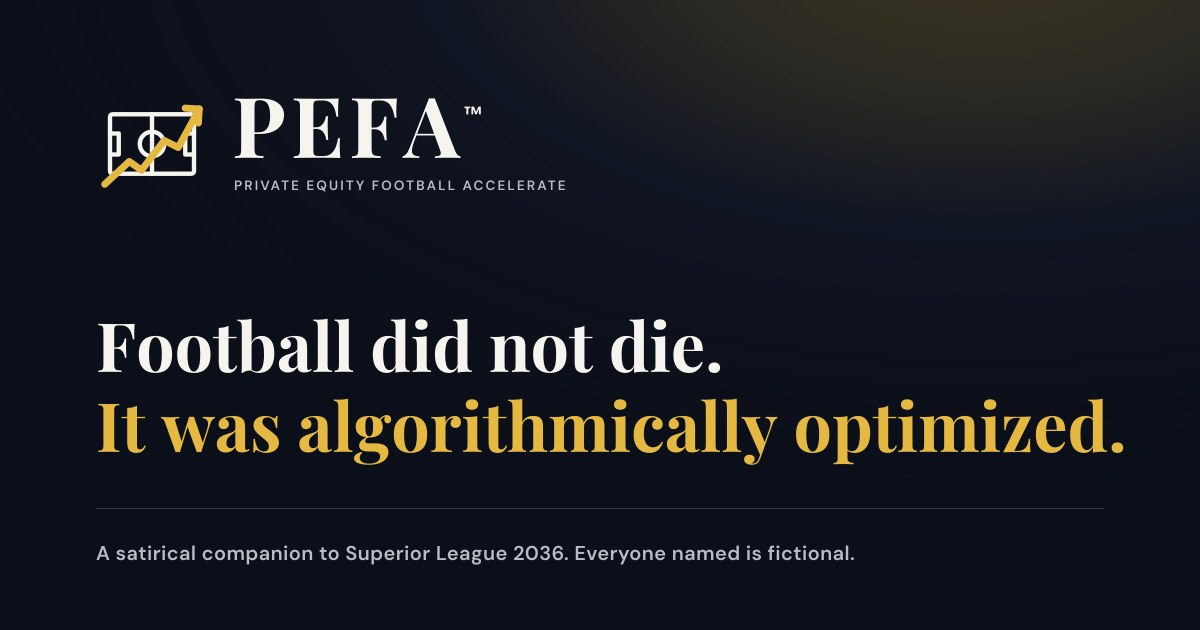
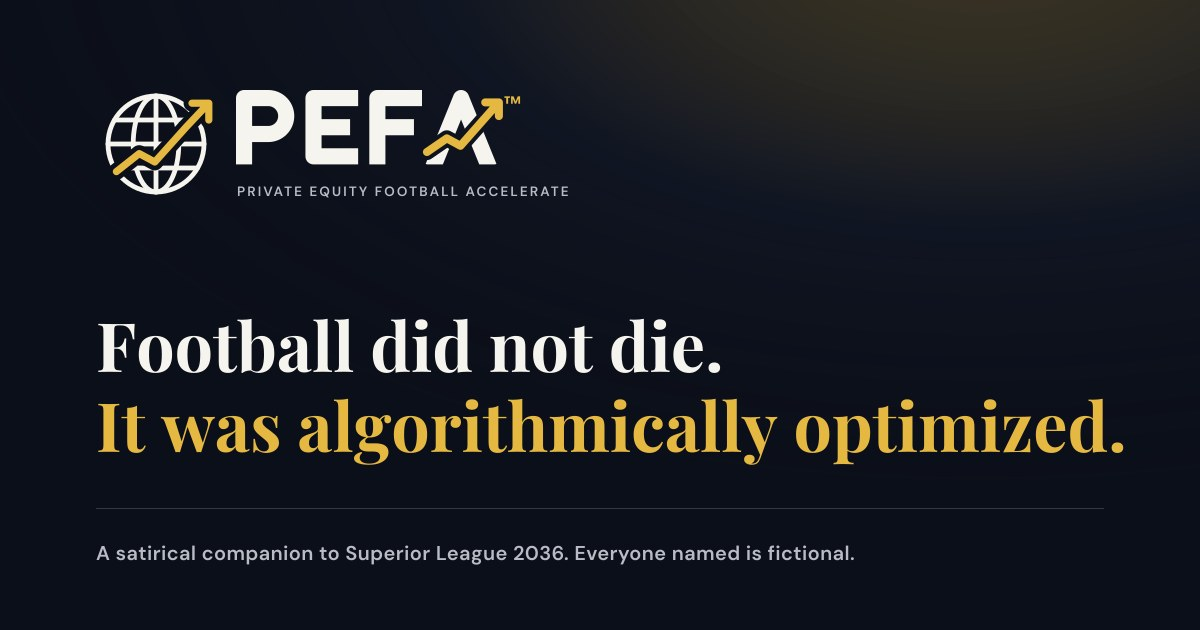
feat: new PEFA mark — Breakout globe emblem and PEF▲ wordmark
Replaces the pitch-as-chart emblem and serif wordmark with a FIFA-flavoured
identity: a wireframe globe whose gold trend line breaks out at the top
right, and heavy drawn capitals whose A takes the same trend line as its
crossbar. The arrow gap is masked out, so the marks stay transparent on
every surface. The favicon and 32px icon use a solid-disc cut of the globe.

Regenerates the brand SVGs, favicon, app icons and default OG image via
`npm run brand`, updates header/footer image sizes, and updates the
pefa-mark canon entry.

Changed region(s): [[0.0617, 0.1206, 0.4933, 0.3317]]

diff --git a/src/canon/site/index.ts b/src/canon/site/index.ts
@@ -24,8 +24,8 @@ export const SITE_CANON: SiteCanonEntry[] = [
     title: 'The PEFA™ mark',
     status: 'proposed-for-game',
     facts: [
-      'PEFA’s emblem is a football pitch drawn as a chart: a plain pitch outline with a gold trend line climbing through the centre circle and out of the frame.',
-      'The PEFA™ wordmark is set in a high-contrast serif; the Superior League keeps its own knot mark as PEFA’s product.',
+      'PEFA’s emblem is a wireframe globe with a gold trend line climbing across it and breaking out at the top right.',
+      'The PEFA™ wordmark is drawn in heavy block capitals; the A has no crossbar, only the same gold trend line. The Superior League keeps its own knot mark as PEFA’s product.',
     ],
     surfaces: ['Header', 'Favicon', 'OG cards'],
   },

diff --git a/src/components/shared/SiteHeader.tsx b/src/components/shared/SiteHeader.tsx
@@ -86,7 +86,7 @@ export function SiteHeader({ material }: { material: Material }) {
       >
         <div className="mx-auto flex h-[4.25rem] max-w-7xl items-center justify-between gap-6 px-4 sm:px-6 lg:px-8">
           <Link to="/" viewTransition className="shrink-0" aria-label="PEFA™ home">
-            <img src={lockup} alt="" width={472} height={120} className="h-9 w-auto sm:h-10" />
+            <img src={lockup} alt="" width={476} height={120} className="h-9 w-auto sm:h-10" />
           </Link>
 
           <nav aria-label="Primary" className="hidden xl:block">

diff --git a/src/components/shared/SiteFooter.tsx b/src/components/shared/SiteFooter.tsx
@@ -64,8 +64,8 @@ export function SiteFooter({ material }: { material: Material }) {
           <img
             src={wordmark}
             alt=""
-            width={296}
-            height={104}
+            width={466}
+            height={120}
             loading="lazy"
             data-reveal="clip"
             className="w-full opacity-[0.07] [mask-image:linear-gradient(to_bottom,#000_40%,transparent)]"

diff --git a/CANON.md b/CANON.md
@@ -47,7 +47,7 @@ game's own web-first content drop; the site never edits the game).
 
 | Id                     | Added      | Status            | New facts                                                                                                                                                                                                                                                                                                                                                                                                | Where                                                       |
 | ---------------------- | ---------- | ----------------- | -------------------------------------------------------------------------------------------------------------------------------------------------------------------------------------------------------------------------------------------------------------------------------------------------------------------------------------------------------------------------------------------------------- | ----------------------------------------------------------- |
-| `pefa-mark`            | 2026-09-25 | proposed-for-game | PEFA's emblem is a pitch drawn as a chart, with a gold trend line climbing out of the frame. Wordmark in a high-contrast serif; the Superior League keeps its knot mark                                                                                                                                                                                                                                  | Header, favicon, OG cards                                   |
+| `pefa-mark`            | 2026-09-25 | proposed-for-game | PEFA's emblem is a wireframe globe with a gold trend line breaking out of it. Wordmark in heavy block capitals; the A's crossbar is the trend line. The Superior League keeps its knot mark                                                                                                                                                                                                              | Header, favicon, OG cards                                   |
 | `website-launch`       | 2026-09-25 | site-only         | PEFA launched its corporate website on 1 July 2036. Transparency is one of the five stated objectives, and one of the two that are not redacted                                                                                                                                                                                                                                                          | `/newsroom/corporate-website-launch`                        |
 | `venue-spec`           | 2026-09-25 | proposed-for-game | Every venue holds the pitch at 19°C under a closed roof. Prices track demand, form and the opponent's TokTok following. In-seat displays tuned per occupant; chants composed live and cleared for rights. Seats pulse on shots, tackles and price movements; financial wellness content at half-time                                                                                                     | `/superior-venue`                                           |
 | `partner-roles`        | 2026-09-25 | proposed-for-game | Microsack's audio calibration raises under-attended atmosphere and lowers off-message crowds; it also supports the Synthetic Away End. Clawed AI shares opposition modeling with all clubs equally, at tiered rates. ChatGDP issues statements within four seconds of the whistle and generates supporter reaction before the result                                                                     | `/technology`                                               |
